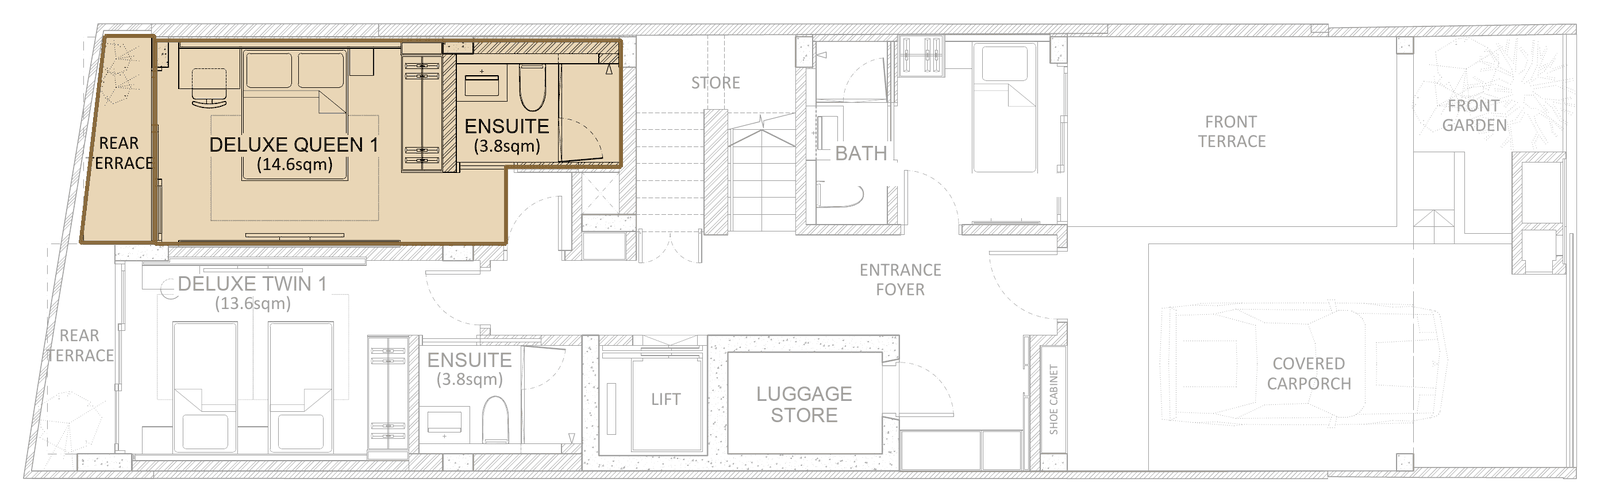
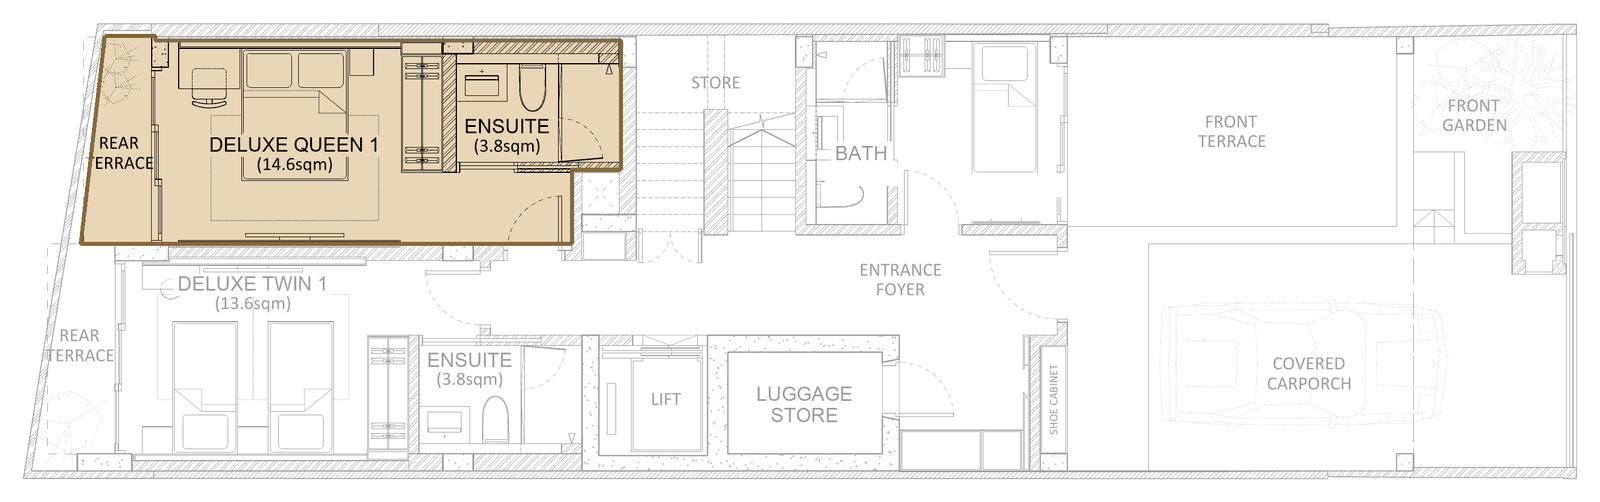
Rooms floor plans: remove stray door swing at Deluxe Queen 4; Deluxe Queen 1 and Twin 1 one outline with their terraces; Deluxe Queen 1 entry matches floors 3/4

Changed region(s): [[0.3125, 0.3287, 0.4062, 0.508], [0.0938, 0.0896, 0.125, 0.4781], [0.0312, 0.4781, 0.0938, 0.508]]

diff --git a/tools/floor_plans.py b/tools/floor_plans.py
@@ -60,8 +60,9 @@ RELABEL = {
 
 # Highlight polygons (crop pixels). Rooms include their ensuite.
 P = {
-    "dq-ground":  (1, [(270, 70), (1080, 70), (1080, 290), (880, 290), (880, 424), (270, 424)]),
-    "dt-ground":  (1, [(200, 450), (880, 450), (880, 590), (1000, 590), (1000, 790), (200, 790)]),
+    # Deluxe Queen 1: room + entry (as on floors 3/4) + its rear terrace, one outline (PK)
+    "dq-ground":  (1, [(182, 62), (270, 62), (270, 70), (1080, 70), (1080, 295), (995, 295), (995, 424), (140, 424)]),
+    "dt-ground":  (1, [(135, 428), (212, 428), (212, 450), (880, 450), (880, 590), (1000, 590), (1000, 800), (62, 800)]),  # + rear terrace
     "dq-upper":   (None, [(150, 70), (985, 70), (985, 292), (900, 292), (900, 425), (150, 425)]),
     "dt-upper":   (None, [(85, 455), (780, 455), (780, 600), (920, 600), (920, 800), (85, 800)]),
     # Elysia includes its entry lobby left of the ensuite: wardrobe + room door (PK)
@@ -91,10 +92,10 @@ JOBS = {  # output name: (floor, [polygons])
     "plan-aurelia":        (5, ["aurelia"]),
     "plan-elysia-3":       (3, ["el-upper"]),
     "plan-elysia-4":       (4, ["el-upper"]),
-    "plan-deluxe-queen-1": (1, ["dq-ground", "dq1-terr"]),
+    "plan-deluxe-queen-1": (1, ["dq-ground"]),
     "plan-deluxe-queen-3": (3, ["dq-upper"]),
     "plan-deluxe-queen-4": (4, ["dq-upper"]),
-    "plan-deluxe-twin-1":  (1, ["dt-ground", "dt1-terr"]),
+    "plan-deluxe-twin-1":  (1, ["dt-ground"]),
     "plan-deluxe-twin-3":  (3, ["dt-upper"]),
     "plan-deluxe-twin-4":  (4, ["dt-upper"]),
     "floor-1-shared":      (1, ["shared-1"]),
@@ -126,6 +127,11 @@ def relabel(img, floor):
 
 def render(name, floor, polys):
     g = Image.open(f"floor-{floor}.png").convert("L")
+    if floor == 4:
+        # The architect's 4th-floor sheet has a stray second door swing at Deluxe Queen 4's
+        # entry; the 3rd floor is identical there without it, so copy that patch across.
+        patch = (812, 296, 899, 380)
+        g.paste(Image.open("floor-3.png").convert("L").crop(patch), patch[:2])
     relabel(g, floor)
     base = g.convert("RGB")
     faded = Image.blend(base, Image.new("RGB", base.size, (255, 255, 255)), 0.62)
